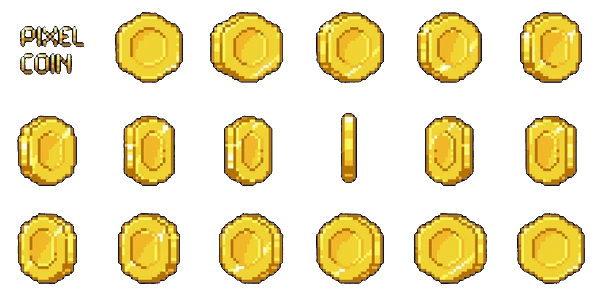
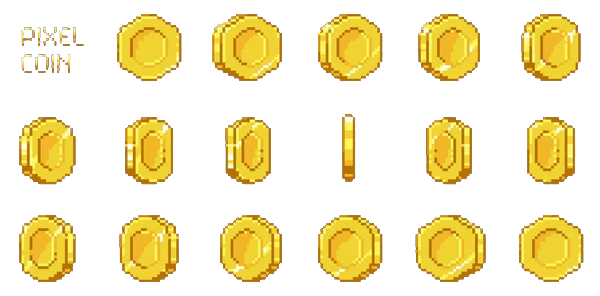
afegim moneda i funcioanlitats i comencem a fer el portal al segon mon

diff --git a/PhaserAlberto2025/src/scenes/Game.js b/PhaserAlberto2025/src/scenes/Game.js
@@ -14,6 +14,7 @@ import Explosion from '../gameObjects/Explosion.js';
 
 
 export class Game extends Phaser.Scene {
+    static NEXT_LEVEL_POINTS = 2000;
     constructor() {
         super('Game');
     }
@@ -39,8 +40,8 @@ export class Game extends Phaser.Scene {
             volume: 0.5,  // adjust volume 0 to 1
             loop: true    // loop music
         });
-
-         this.bgMusic.play();
+        this.addMoneda(1);
+        this.bgMusic.play();
     }
 
     update() {
@@ -52,7 +53,7 @@ export class Game extends Phaser.Scene {
         this.player.update();
         if (this.spawnEnemyCounter > 0) this.spawnEnemyCounter--;
         else this.addFlyingGroup();
-        this.addMoneda();
+        
     }
 
     initVariables() {
@@ -61,6 +62,7 @@ export class Game extends Phaser.Scene {
         this.centreX = this.scale.width * 0.5;
         this.centreY = this.scale.height * 0.5;
         this.moneda = null;
+        this.portal = null;
 
         // list of tile ids in tiles.png
         // items nearer to the beginning of the array have a higher chance of being randomly chosen when using weighted()
@@ -149,11 +151,14 @@ export class Game extends Phaser.Scene {
     }
 
     initPhysics() {
+        this.portals = this.add.group();
+        this.monedes = this.add.group();
         this.enemyGroup = this.add.group();
         this.enemyBulletGroup = this.add.group();
         this.playerBulletGroup = this.add.group();
 
-        this.physics.add.overlap(this.player, this.moneda, this.hitMoneda, null, this);
+        this.physics.add.overlap(this.player, this.portals, this.hitPortal, null, this);
+        this.physics.add.overlap(this.player, this.monedes, this.hitMoneda, null, this);
         this.physics.add.overlap(this.player, this.enemyBulletGroup, this.hitPlayer, null, this);
         this.physics.add.overlap(this.playerBulletGroup, this.enemyGroup, this.hitEnemy, null, this);
         this.physics.add.overlap(this.player, this.enemyGroup, this.hitPlayer, null, this);
@@ -277,11 +282,21 @@ export class Game extends Phaser.Scene {
         this.enemyBulletGroup.add(bullet);
     }
 
-
-    addMoneda() {
+    addPortal(){
+        // nomes un
+        if (this.portal && this.portal.active) return;
+        const maxX = this.scale.width-50;   // amplada viewport
+        const maxY = this.scale.height-50;  // altura viewport
+        this.portal = new Portal(this,Phaser.Math.Between(0, maxX+10),Phaser.Math.Between(0, maxY+10));
+        this.portals.add(this.portal);
+    }
+    addMoneda(score) {
         // nomes una
         if (this.moneda && this.moneda.active) return;
-        this.moneda = new Moneda(this);
+            const maxX = this.scale.width-50;   // amplada viewport
+            const maxY = this.scale.height-50;  // altura viewport
+        this.moneda = new Moneda(this,Phaser.Math.Between(0, maxX+10),Phaser.Math.Between(0, maxY+10),score);
+        this.monedes.add(this.moneda);
     }
     // add a group of flying enemies
     addFlyingGroup() {
@@ -320,10 +335,16 @@ export class Game extends Phaser.Scene {
     addExplosion(x, y) {
         new Explosion(this, x, y);
     }
-    hitMoneda(player,obstacle){
-        obstacle.die()
-        this.addExplosion(player.x, player.y);
-        this.score += Game.SCORE_MONEDA
+    hitPortal(player,obstacle){
+        this.addExplosion(this.x, this.y);
+        console.log("portal hit");
+    }
+    hitMoneda(player,obstacle){ 
+        this.addExplosion(this.x, this.y);
+        this.monedes.remove(obstacle, true, true);
+        this.addMoneda(obstacle.score/50+1)
+        this.updateScore(obstacle.score)
+        console.log("hitted" + obstacle.score);
     }
     hitPlayer(player, obstacle) {
         obstacle.die()
@@ -335,6 +356,8 @@ export class Game extends Phaser.Scene {
         if (this.hp > 1){
             this.hp--;
             this.updateLives()
+            this.monedes.remove(this.moneda, true, true);
+            this.addMoneda(1)
         }
         else{
             player.hit(obstacle.getPower());
@@ -353,6 +376,10 @@ export class Game extends Phaser.Scene {
     updateScore(points) {
         this.score += points;
         this.scoreText.setText(`Puntuació: ${this.score}/1000`);
+        if (this.score > Game.NEXT_LEVEL_POINTS){
+            this.addPortal();
+        }
+
     }
     updateLives() {
           this.livesText.setText("❤".repeat(this.hp));

diff --git a/PhaserAlberto2025/src/gameObjects/Portal.js b/PhaserAlberto2025/src/gameObjects/Portal.js
@@ -1,21 +1,25 @@
 import ASSETS from '../assets.js';
+import ANIMATION from '../animation.js';
 
-export default class Portal extends Phaser.Physics.Arcade.Sprite {
+export default class Moneda extends Phaser.Physics.Arcade.Sprite {
+  preload(){
+    this.load.image('portalgif', 'assets/portal.gif');
+  }
+  constructor(scene,x,y) {
     
 
+    super(scene, x, y, , 2);
 
-    constructor(scene, pathId, speed, power) {
-        super(scene, 500, 500, ASSETS.spritesheet.ships.key);
+    scene.add.existing(this);
+    scene.physics.add.existing(this);
 
-        scene.add.existing(this);
-        scene.physics.add.existing(this);
+    this
+      .setDepth(10)             // davant de tot
+      .setFlipY(true)           // gir vertical si cal
+      .setDisplaySize(60, 60)   // mida visible 60×60
+      
 
-
-        this.setFlipY(true); // flip image vertically
-        this.setDepth(10);
-        this.scene = scene;
-
-        this.initPath(pathId, speed); // choose path to follow
-    }
+    this.scene = scene;
+  }
 
 }

diff --git a/PhaserAlberto2025/src/gameObjects/Moneda.js b/PhaserAlberto2025/src/gameObjects/Moneda.js
@@ -1,3 +1,24 @@
 import ASSETS from '../assets.js';
+import ANIMATION from '../animation.js';
 
-export default class Player extends Phaser.Physics.Arcade.Sprite {
+export default class Moneda extends Phaser.Physics.Arcade.Sprite {
+
+  constructor(scene,x,y,multiplyer) {
+    
+
+    super(scene, x, y, ASSETS.spritesheet.moneda.key, 2);
+    this.score = multiplyer * 50;
+
+    scene.add.existing(this);
+    scene.physics.add.existing(this);
+
+    this
+      .setDepth(10)             // davant de tot
+      .setFlipY(true)           // gir vertical si cal
+      .setDisplaySize(60, 60)   // mida visible 60×60
+      .anims.play(ANIMATION.moneda.key);  // arrenca l’animació
+
+    this.scene = scene;
+  }
+
+}

diff --git a/PhaserAlberto2025/src/animation.js b/PhaserAlberto2025/src/animation.js
@@ -8,13 +8,13 @@ export default {
         frameRate: 10,
         config: { start: 4, end: 8 },
     },
-    // animacio nova de la moneda
+    // animacio de la moneda
     moneda: {
         key: 'moneda',
         texture: ASSETS.spritesheet.moneda.key,
         frameRate: 12,         // velocitat d’animació
         config: { start: 2,    // saltem els dos primers (text “PIXEL COIN”)
-                end: 31 },    // fins a l’últim fotograma
+                end: 11 },    // fins a l’últim fotograma
         repeat: -1             // bucle infinit
     },
 };

diff --git a/PhaserAlberto2025/src/assets.js b/PhaserAlberto2025/src/assets.js
@@ -29,8 +29,8 @@ export default {
         moneda: {
             key: 'moneda',
             args: ['assets/moneda.png', {
-                frameWidth: 75,   // 600px ÷ 8 columnes
-                frameHeight: 98   // 296px ÷ 3 files
+                frameWidth: 100,   // 567 ÷ 8 columnes
+                frameHeight: 100   // 271px ÷ 3 files
             }]
         },
     }
